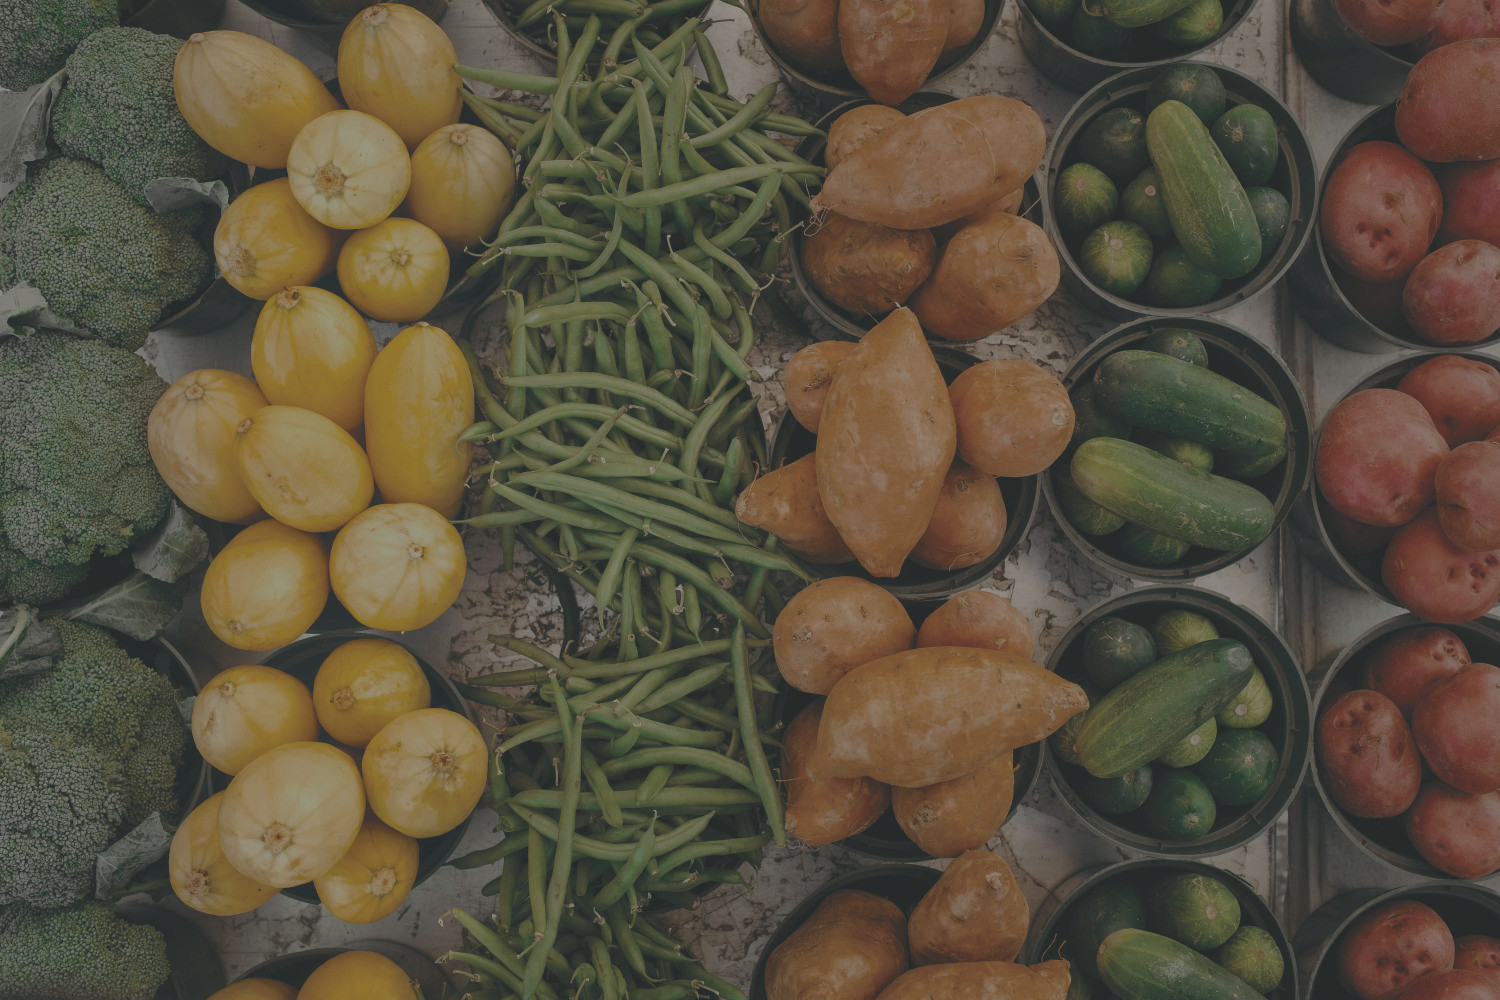
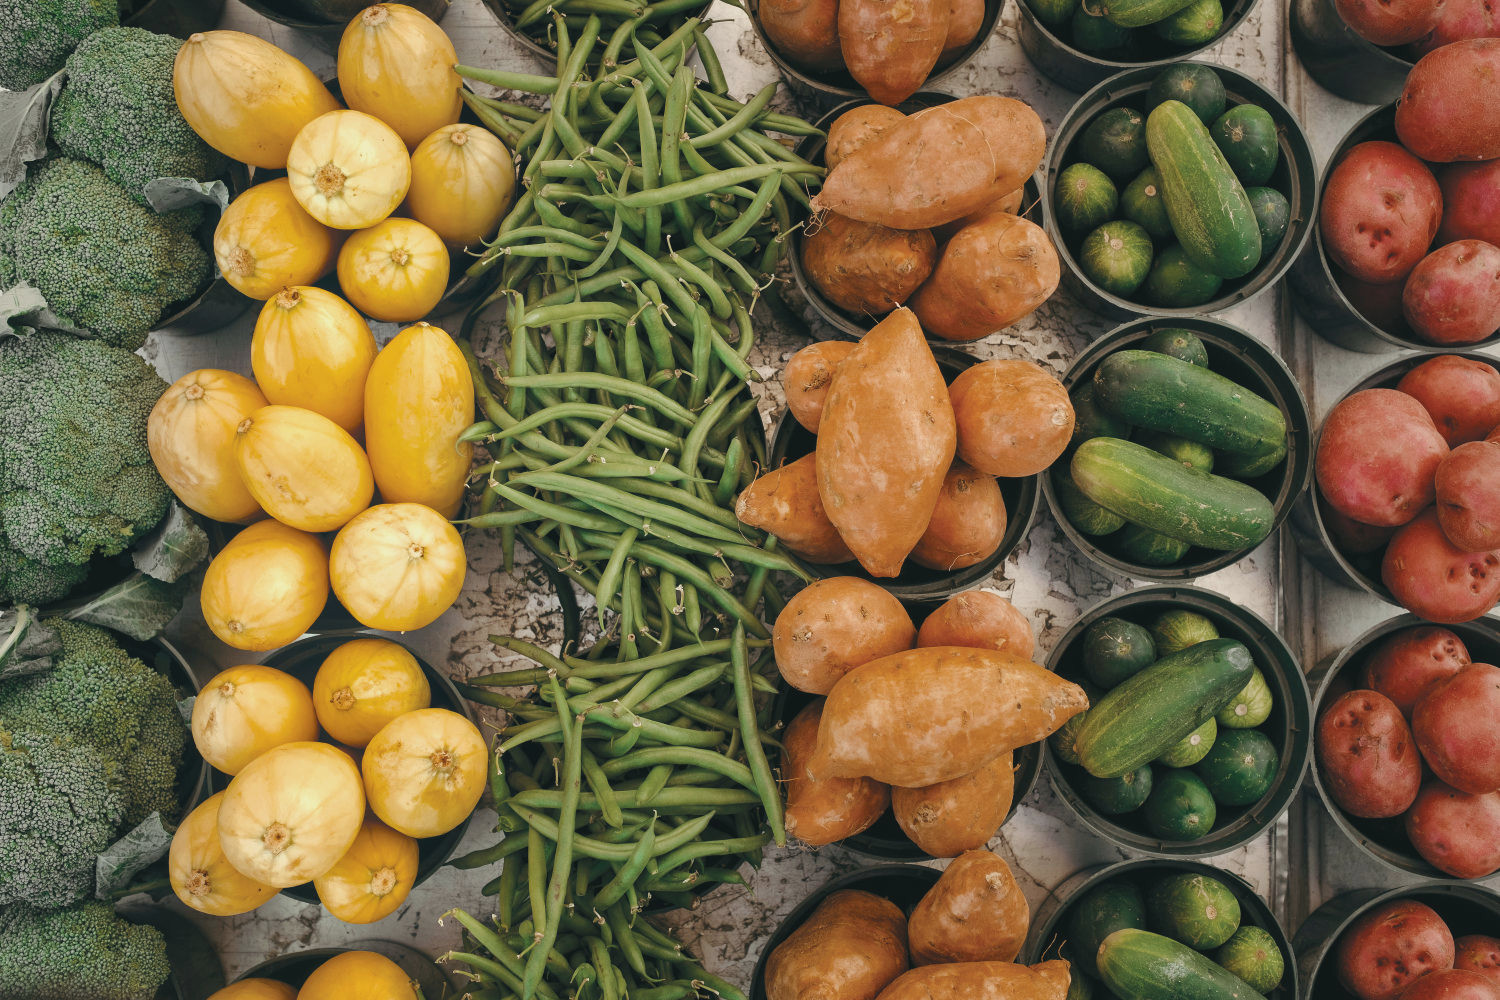
Updates

diff --git a/src/components/TeamImages.svelte b/src/components/TeamImages.svelte
@@ -16,8 +16,8 @@
 
 <style>
   .imageWrapper {
-    height: 16rem;
-    width: 16rem;
+    height: 320px;
+    width: 320px;
     overflow: hidden;
     margin-bottom: 0.7rem;
     position: relative;
@@ -57,6 +57,7 @@
     align-items: center;
     justify-content: center;
     flex-wrap: wrap;
+    margin: 3rem 0 0;
   }
   div.teamMember {
     display: flex;
@@ -151,12 +152,18 @@
     font-size: 0.9rem;
   }
   .modal div.modalContact > a {
-    height: 0.9rem;
+    height: 1rem;
     display: flex;
     align-items: center;
+    justify-content: flex-start;
     margin-right: 1.5rem;
     color: #666;
     text-decoration: none;
+  }
+
+  .modal .iconWrapper {
+    width: 0.9rem;
+    height: 0.9rem;
   }
 
   .modal div.modalContact > a:hover {
@@ -165,6 +172,7 @@
 
   .modal div.modalContact > a > span {
     margin-left: 0.4rem;
+    line-height: 1rem;
   }
 
   .modal p.blurb {
@@ -203,7 +211,9 @@
             rel="noopener noreferrer"
             on:click={stopPropagation}
             href="mailto:{selectedMember.email}">
-            <FaEnvelope />
+            <span class="iconWrapper">
+              <FaEnvelope />
+            </span>
             <span>Email</span>
           </a>
         {/if}
@@ -213,7 +223,9 @@
             rel="noopener noreferrer"
             on:click={stopPropagation}
             href="https://www.linkedin.com/in/{selectedMember.linkedIn}/">
-            <FaLinkedin />
+            <span class="iconWrapper">
+              <FaLinkedin />
+            </span>
             <span>LinkedIn</span>
           </a>
         {/if}
@@ -223,7 +235,9 @@
             rel="noopener noreferrer"
             on:click={stopPropagation}
             href="https://github.com/{selectedMember.gitHub}">
-            <FaGithub />
+            <span class="iconWrapper">
+              <FaGithub />
+            </span>
             <span>GitHub</span>
           </a>
         {/if}

diff --git a/src/components/Nav.svelte b/src/components/Nav.svelte
@@ -14,6 +14,7 @@
     right: 0;
     background-color: white;
     height: 3rem;
+    /* overflow: hidden; */
     box-sizing: content-box;
     z-index: 24;
   }
@@ -42,12 +43,16 @@
     margin: 0 0.8rem;
   }
 
+  .selected {
+    font-weight: bold;
+  }
+
   .selected::after {
     position: absolute;
     content: "";
-    width: 90%;
-    margin-left: 5%;
-    height: 2px;
+    width: 80%;
+    margin-left: 10%;
+    height: 3px;
     background-color: var(--themeColor);
     display: block;
     bottom: -1px;
@@ -82,15 +87,15 @@
         <a class:selected={segment === 'team'} href="team">Our Team</a>
       </li>
       <li>
+        <a class:selected={segment === 'sponsorship'} href="sponsorship">
+          Sponsorship
+        </a>
+      </li>
+      <li>
         <a
           class:selected={segment === 'about-vertical-farming'}
           href="about-vertical-farming">
           About Vertical Farming
-        </a>
-      </li>
-      <li>
-        <a class:selected={segment === 'sponsorship'} href="sponsorship">
-          Sponsorship
         </a>
       </li>
     </ul>

diff --git a/src/routes/about-vertical-farming.svelte b/src/routes/about-vertical-farming.svelte
@@ -1,17 +1,24 @@
 <script>
-
+  import PageHeader from "../components/PageHeader.svelte";
 </script>
 
 <style>
-
+  img.diagram {
+    width: 90%;
+    max-width: 500px;
+    margin: 0 auto;
+    display: block;
+    margin-top: 2rem;
+    box-shadow: 0px 0px 1rem rgba(0, 0, 0, 0.3);
+  }
 </style>
 
 <svelte:head>
   <title>Queen's Vertical Farming Team</title>
 </svelte:head>
 
+<PageHeader>About Vertical Farming</PageHeader>
 <div class="contentWrapper">
-  <h1>About Vertical Farming</h1>
   <h2>Background</h2>
   <p>
     A global trend of increasing concern is the diminishing supply of arable
@@ -30,6 +37,10 @@
     improvements in per-acre land productivity, increased plant productivity,
     and the freedom to cultivate crops in any location, year-round.
   </p>
+  <div>
+    <img class="diagram" src="diagram.jpg" alt="Vertical farm diagram" />
+
+  </div>
   <h2>System Controls</h2>
   <p>
     Currently being developed by the Controls, Data, & Automation team, QVFT's

diff --git a/src/routes/sponsorship.svelte b/src/routes/sponsorship.svelte
@@ -1,9 +1,13 @@
 <script>
-
+  import PageHeader from "../components/PageHeader.svelte";
 </script>
 
 <style>
   iframe {
+    margin-top: 2rem;
+  }
+
+  .contentWrapper {
     margin-top: 2rem;
   }
 </style>
@@ -11,14 +15,16 @@
 <svelte:head>
   <title>Queen's Vertical Farming Team</title>
 </svelte:head>
+<PageHeader>Sponsorship</PageHeader>
 <div class="contentWrapper">
-  <h1>Sponsorship</h1>
   <p>
-    <a href="sponsorship.pdf" download>Download our sponsorship package here</a>
+    <a href="QVFT_Sponsorship.pdf" download>
+      Download our sponsorship package here
+    </a>
   </p>
   <iframe
     title="Sponsorship"
-    src="sponsorship.pdf"
-    style="height: 90vh"
+    src="QVFT_Sponsorship.pdf"
+    style="height: 100vh"
     width="100%" />
 </div>

diff --git a/src/routes/index.svelte b/src/routes/index.svelte
@@ -28,7 +28,7 @@
   div.fullScreen p {
     margin: 3rem 0;
     font-style: italic;
-    font-size: 1.7rem;
+    font-size: 1.5rem;
     line-height: 3rem;
     text-align: justify;
     color: #eee;
@@ -36,7 +36,7 @@
   }
   div.fullScreen > div.fullScreenContent {
     min-height: calc(100vh - 3rem); /* 3rem is nav height */
-    background-color: rgba(0, 0, 0, 0.2);
+    background-color: rgba(0, 0, 0, 0.5);
     display: flex;
     justify-content: center;
     align-items: center;
@@ -51,7 +51,7 @@
   div.logoWrapper {
     max-height: 18rem;
     max-width: 18rem;
-    margin: 0 auto;
+    margin: 6rem auto 0;
   }
   img.logo {
     height: 100%;

diff --git a/src/components/PageHeader.svelte b/src/components/PageHeader.svelte
@@ -1,0 +1,34 @@
+<style>
+  .pageHeader {
+    height: 18rem;
+    color: white;
+    font-size: 1.8rem;
+    background-size: cover !important;
+  }
+
+  .tint {
+    height: 100%;
+    width: 100%;
+    background-color: rgba(0, 0, 0, 0.45);
+  }
+  h1 {
+    font-weight: normal !important;
+  }
+  .contentWrapper {
+    display: flex;
+    align-items: center;
+    height: 100%;
+  }
+</style>
+
+<div
+  class="pageHeader"
+  style="background: url('background.jpg') no-repeat center center fixed;">
+  <div class="tint">
+    <div class="contentWrapper">
+      <h1>
+        <slot />
+      </h1>
+    </div>
+  </div>
+</div>

diff --git a/src/routes/team.svelte b/src/routes/team.svelte
@@ -10,7 +10,7 @@
 
 <script>
   import TeamImages from "../components/TeamImages.svelte";
-
+  import PageHeader from "../components/PageHeader.svelte";
   export let team = [];
 </script>
 
@@ -21,7 +21,5 @@
 <svelte:head>
   <title>Our Team | Queen's Vertical Farming Team</title>
 </svelte:head>
-<div class="contentWrapper">
-  <h1>Our Team</h1>
-  <TeamImages {team} />
-</div>
+<PageHeader>Our Team</PageHeader>
+<TeamImages {team} />

diff --git a/src/routes/_layout.svelte b/src/routes/_layout.svelte
@@ -5,9 +5,7 @@
 </script>
 
 <style>
-  main {
-    padding: 3rem 0;
-  }
+
 </style>
 
 <Nav {segment} />

diff --git a/static/global.css b/static/global.css
@@ -14,7 +14,7 @@ a {
 }
 
 body {
-  line-height: 1.5;
+  line-height: 1.8;
 }
 
 html,
